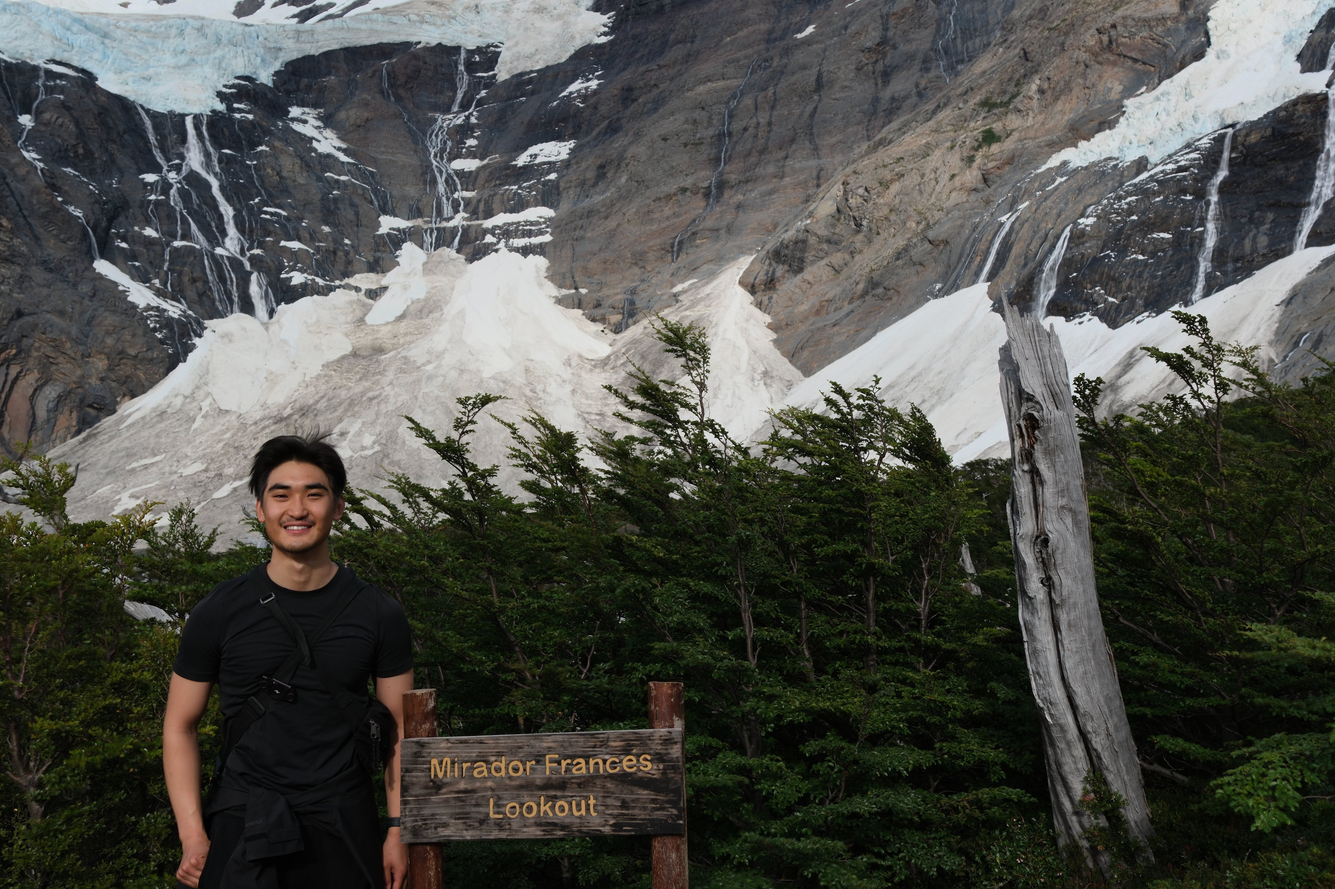
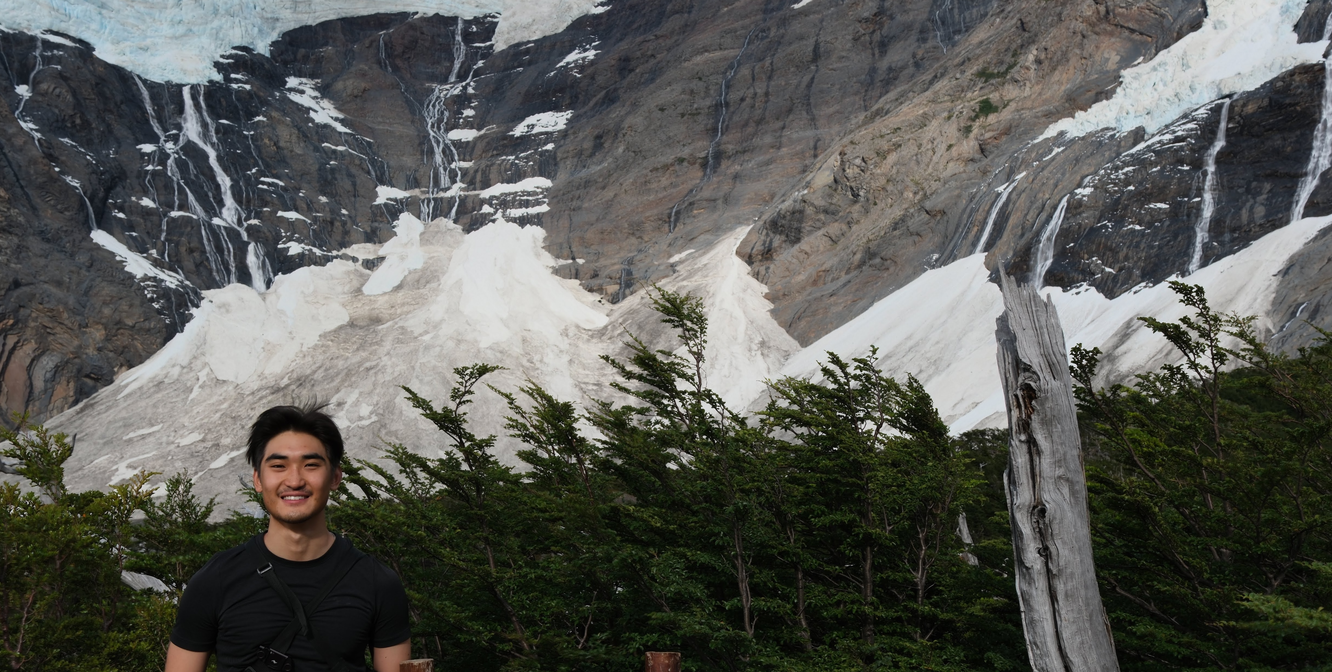
fix titles and photo
fix: incorrect about me image dims and sidebar title

diff --git a/index.html b/index.html
@@ -29,7 +29,7 @@
 						<nav id="nav">
 							<ul>
 								<li><a href="#top" id="top-link"><span class="icon solid fa-home">Intro</span></a></li>
-								<li><a href="#portfolio" id="portfolio-link"><span class="icon solid fa-th">Portfolio</span></a></li>
+								<li><a href="#portfolio" id="portfolio-link"><span class="icon solid fa-th">Latest</span></a></li>
 								<li><a href="#about" id="about-link"><span class="icon solid fa-user">About Me</span></a></li>
 								<li><a href="#contact" id="contact-link"><span class="icon solid fa-envelope">Contact</span></a></li>
 							</ul>
@@ -74,10 +74,10 @@
 						<div class="container">
 
 							<header>
-								<h2>Thought</h2>
+								<h2>Latest</h2>
 							</header>
 
-							<p>When you always in a reflective mood, you miss the opportunity to just feel in the moment.</p>
+							<p>When you are always in a reflective mood, you miss the opportunity to just feel in the moment.</p>
 
 						</div>
 					</section>
